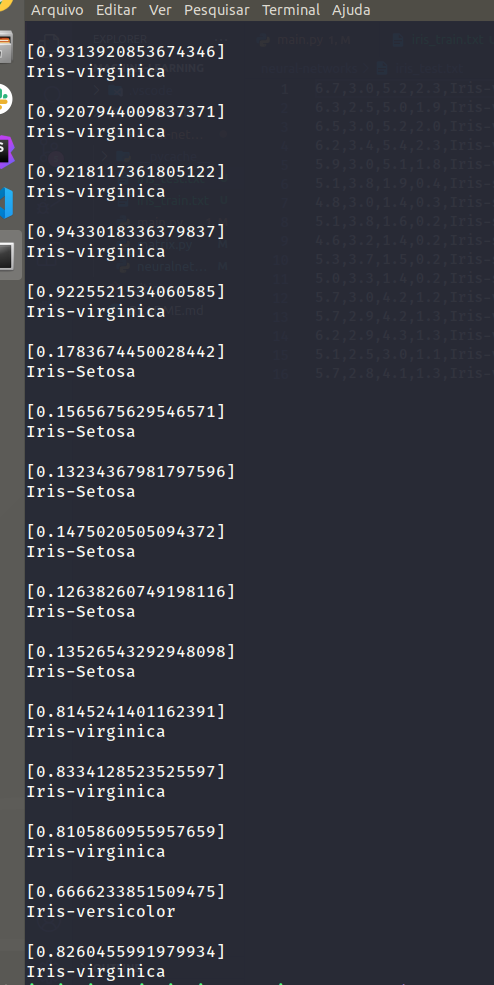
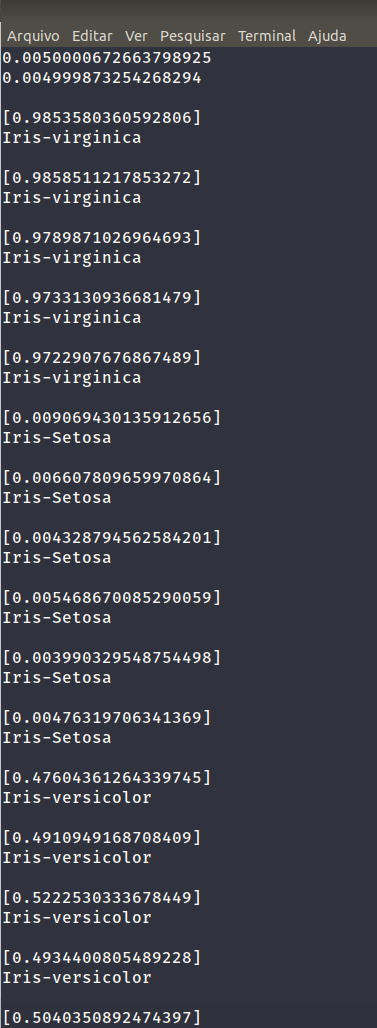
finish

Changed region(s): [[0.0, 0.0, 1.0, 1.0]]

diff --git a/neural-networks/neuralnetwork.py b/neural-networks/neuralnetwork.py
@@ -24,8 +24,8 @@ class NeuralNetwork:
         self.vb_weights_ho = [[0 for i in range(h_nodes)] for i in range(o_nodes)]
 
         # Learning Rate
-        self.learning_rate = 0.1
-        self.a_variation = 0.7
+        self.learning_rate = 0.2
+        self.a_variation = 0.3
 
     def fu(self, inputs, weights, outputs, bias):
         hidden_n = []
@@ -55,43 +55,50 @@ class NeuralNetwork:
             delta_h.append(d)
         return delta_h
 
-    def update_weights(self, inputs, hidden_o, delta_o, delta_h, second):
-
-        for i in range(self.h_nodes):
-            for j in range(self.i_nodes):
-                percent = self.a_variation * self.vb_weights_ih[i][j]
-                variant = self.learning_rate * (inputs[j] * delta_h[j])
-                if second: variant = variant * percent
-                new_weight = self.weigths_ih[i][j] + (variant)
-                
-                self.vb_weights_ih[i][j] = variant
-                self.weigths_ih[i][j] = new_weight
-
-                percent_ho = self.a_variation * self.vb_weights_ho[0][j]
-                variant_ho = self.learning_rate * (hidden_o[j] * delta_o[0])
-                if second: variant_ho = variant_ho * percent_ho
-                new_weight_ho = self.weigths_ho[0][j] + variant_ho
-
-                self.weigths_ho[0][j] = new_weight_ho
-                self.vb_weights_ho[0][j] = variant_ho
-            
-        percent_bo = self.a_variation * self.vb_bias_ho[0]
-        variant_bo = self.learning_rate * (1 * delta_o[0])
-        if second: variant_bo = variant_bo * percent_bo
-        new_weight_bo = self.bias_ho[0] + variant_bo
+    def updates(self, weights, vb_weights, inputs, delt):
         
-        self.bias_ho[0] = new_weight_bo
-        self.vb_bias_ho[0] = variant_bo
+        hidden = len(weights)
+        inputsL = len(inputs)
+
+        for i in range(hidden):
+            for j in range(inputsL):
+                percent = self.a_variation * vb_weights[i][j]
+                variant = (self.learning_rate * (inputs[j] * delt[i]) ) + percent
+                new_weight = weights[i][j] + variant
+                
+                vb_weights[i][j] = variant
+                weights[i][j] = new_weight
+
+        return vb_weights, weights
+    
+    def update(self, weights, vb_weights, inputs, delt):
+        
+        inputsL = len(inputs)
+        
+        for j in range(inputsL):
+            percent = self.a_variation * vb_weights[j]
+            variant = (self.learning_rate * (inputs[j] * delt[j]))  + percent
+            new_weight = weights[j] + variant
             
-        for i in range(self.i_nodes):
-            
-            percent_bi = self.a_variation * self.vb_bias_ih[i]
-            variant_bi = self.learning_rate * (1 * delta_o[0])
-            if second: variant_bi = variant_bi * percent_bi
-            new_weight_bi = self.bias_ih[i] + variant_bi
-            
-            self.bias_ih[i] = new_weight_bi
-            self.vb_bias_ih[i] = variant_bi
+            vb_weights[j] = variant
+            weights[j] = new_weight
+
+        return vb_weights, weights
+
+    def update_weights(self, inputs, hidden_o, delta_o, delta_h):
+
+        # Weights Bias Hidden   
+        self.vb_weights_ih, self.weigths_ih = self.updates(self.weigths_ih, self.vb_weights_ih, inputs, delta_h)
+
+        # Weights Bias Output      
+        self.vb_bias_ho, self.bias_ho = self.update(self.bias_ho, self.vb_bias_ho, [1], delta_o)        
+
+        # Weights Output                        
+        self.vb_weights_ho, self.weigths_ho = self.updates(self.weigths_ho, self.vb_weights_ho, hidden_o, delta_o)
+        
+        # Weights Bias Hidden
+        self.vb_bias_ih, self.bias_ih = self.update(self.bias_ih, self.vb_bias_ih, [1, 1], delta_h)
+
 
     def mse(self, outputs, answers):
         e = 0
@@ -104,23 +111,20 @@ class NeuralNetwork:
 
     def train(self, dataset, answers):
         all_outputs = []
-        second = False
         
-        for i, inputs in zip(range(len(dataset)), dataset):
+        for i in range(len(dataset)):
             # feedfoward         
-            hidden_outputs = self.fu(inputs, self.weigths_ih, self.h_nodes, self.bias_ih)
+            hidden_outputs = self.fu(dataset[i], self.weigths_ih, self.h_nodes, self.bias_ih)
         
             outputs = self.fu(hidden_outputs, self.weigths_ho, self.o_nodes, self.bias_ho)
 
             # backpropagation
             delta_o = self.delt_o(outputs, answers[i])
             
-            delta_h = self.delt_h(hidden_outputs, delta_o)
-            
-            if i != 0: second = True
+            delta_h = self.delt_h(hidden_outputs, delta_o)            
 
-            self.update_weights(inputs, hidden_outputs, delta_o, delta_h, second)
-            
+            self.update_weights(dataset[i], hidden_outputs, delta_o, delta_h)
+
             all_outputs.append(outputs[0])
 
         return self.mse(all_outputs, answers)
@@ -137,9 +141,9 @@ class NeuralNetwork:
             if (outputs[0] >= 0) and (outputs[0] < 0.45):
                 print('Iris-Setosa')
                 
-            elif (outputs[0] >= 0.45) and (outputs[0] < 0.75):
+            elif (outputs[0] >= 0.45) and (outputs[0] < 0.8):
                 print('Iris-versicolor')
                 
-            else:
+            elif (outputs[0] >= 0.8) and (outputs[0] <= 1):
                 print('Iris-virginica')
             

diff --git a/neural-networks/main.py b/neural-networks/main.py
@@ -45,8 +45,9 @@ if __name__ == '__main__':
     nn = NeuralNetwork(4, 8, 1)
 
     while (train):        
-        if (nn.train(dataset, answers) <= 0.014):
+        result = nn.train(dataset, answers)
+        if (result <= 0.003):
             train = False
-        print(nn.train(dataset, answers))
+        print(result)
         
     nn.predict(training)
